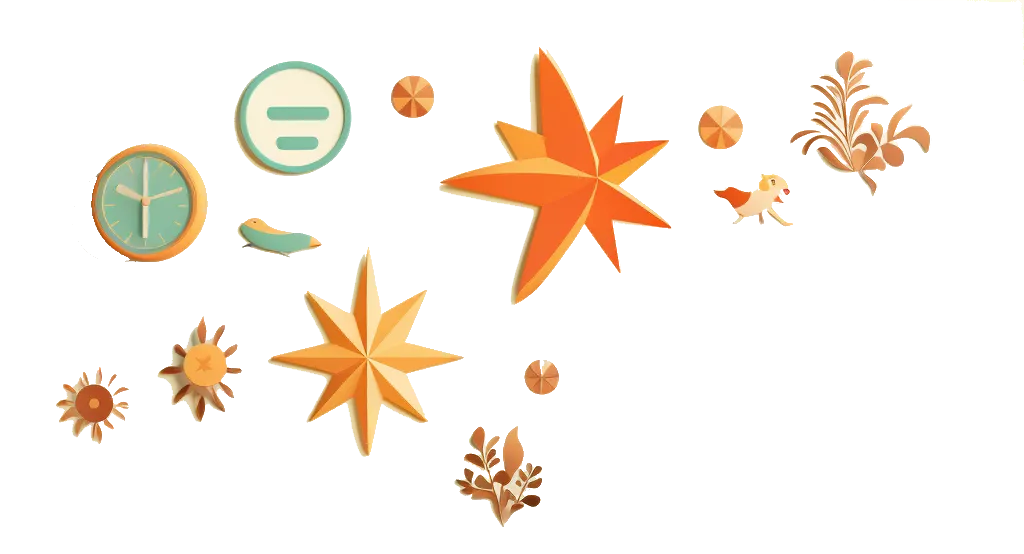
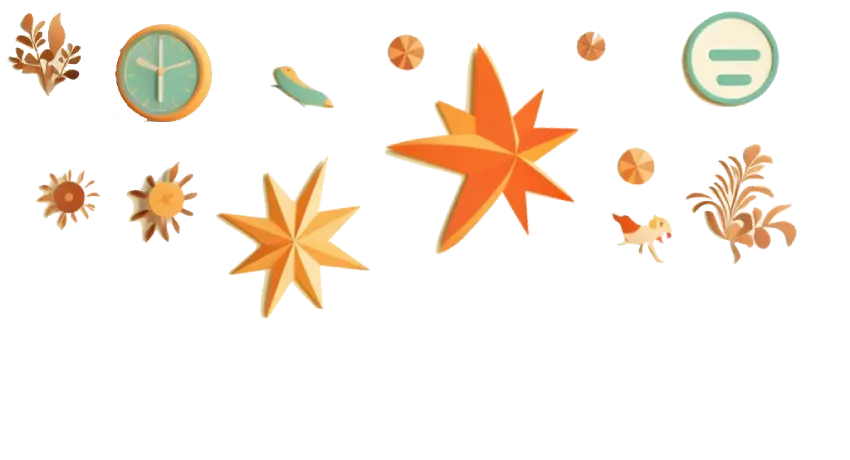
ga-working MVP with minor issues in CSS

diff --git a/styles.scss b/styles.scss
@@ -1,3 +1,9 @@
+// TODO:
+// 1. modalBG space at top
+// 2. right sidebar?
+// 3. LR creases not showing
+// 4. Victory laughing
+
 // Variables
 $red-main: #ef5735;
 $tan-main: #faf0d6;
@@ -27,7 +33,7 @@ $shadow: #949876;
     background-color: rgba(0, 0, 0, 0.85);
   }
   50% {
-    background-color: rgba(0, 0, 0, 0.9);
+    background-color: rgba(0, 0, 0, 0.95);
   }
   100% {
     background-color: rgba(0, 0, 0, 0.85);
@@ -178,7 +184,36 @@ p {
 
 .item {
   position: absolute;
+  z-index: 5;
+}
+
+.floor-crease {
+  height: 2px;
+  width: 100%;
+  color: #271c02;
+  position: absolute;
+  top: 45%;
+  left: 0;
   z-index: 1;
+}
+
+.left-crease {
+  height: 45%;
+  width: 2px;
+  color: #271c02;
+  position: absolute;
+  top: 0;
+  left: 20%;
+  z-index: 1;
+}
+.right-crease {
+  height: 45%;
+  width: 2px;
+  color: #271c02;
+  position: absolute;
+  top: 1;
+  left: 20%;
+  z-index: 0;
 }
 
 #baby {
@@ -296,7 +331,7 @@ p {
 
 .scenery {
   position: absolute;
-  z-index: 0;
+  z-index: 3;
 }
 
 #scoreboard {
@@ -307,10 +342,10 @@ p {
   position: absolute;
   height: 30px;
   width: 200px;
-  padding: 10px;
+  padding: 15px;
   border-radius: 8px;
-  top: 20px;
-  right: 20px;
+  top: 10px;
+  right: 40px;
   z-index: 99;
 }
 #scoreTitle {
@@ -340,13 +375,18 @@ p {
 }
 
 #sofa {
-  top: 30%;
+  top: 35%;
   left: 38%;
 }
 
 #smallbookshelf {
   left: 75%;
   top: 4%;
+}
+
+#smallpot {
+  left: 64%;
+  top: 45%;
 }
 
 #stool {
@@ -357,6 +397,13 @@ p {
 #twincabinet {
   left: 5%;
   top: 5%;
+}
+
+#wallhangings {
+  top: 0;
+  left: 50%;
+  margin: 0 auto;
+  transform: translate(-50%, 0%);
 }
 
 // ACTIONS
@@ -377,4 +424,11 @@ p {
 
 .tip-left {
   animation: tip-over-left 0.3s 1 ease-in forwards;
+}
+
+.gone {
+  display: none;
+}
+.win,
+.lose {
 }

diff --git a/index.html b/index.html
@@ -23,7 +23,7 @@
         <h1>Congratulations! You helped <span class="enter-baby-name"></span> destroy the living room!</h1>
         <img id="baby-win" src="img/baby-win.webp" />
       </article>
-      <article class="lose hide">
+      <article class="lose hide gone">
         <h1>Wah! You and <span class="enter-baby-name"></span> didn't destroy the living room in time!</h1>
         <h4>How could you do this to a child? You monster.</h4>
         <img id="baby-lose" src="img/baby-lose.webp" />
@@ -63,12 +63,21 @@
         <figure class="item" id="smallbookshelf" data-name="smallbookshelf" data-cost="225">
           <img src="img/smallbookshelf.webp" alt="Small Bookshelf" />
         </figure>
+        <figure class="item" id="smallpot" data-name="smallpot" data-cost="25">
+          <img src="img/smallpot.webp" alt="Small Potted Plant" />
+        </figure>
         <figure class="item" id="cabinet" data-name="cabinet" data-cost="350">
           <img src="img/cabinet.webp" alt="Cabinet" />
         </figure>
         <figure id="rug" class="scenery" data-name="rug" data-cost="2200">
           <img src="img/abstract_rug.webp" alt="Abstract mid century rug" />
         </figure>
+        <figure id="wallhangings" class="scenery" data-name="wallhangings" data-cost="825">
+          <img src="img/wallhangings.webp" alt="Wall hangings" />
+        </figure>
+        <figure class-="scenery floor-crease"></figure>
+        <figure class-="scenery left-crease"></figure>
+        <figure class-="scenery right-crease"></figure>
       </section>
     </main>
   </body>

diff --git a/styles.css b/styles.css
@@ -15,7 +15,7 @@
     background-color: rgba(0, 0, 0, 0.85);
   }
   50% {
-    background-color: rgba(0, 0, 0, 0.9);
+    background-color: rgba(0, 0, 0, 0.95);
   }
   100% {
     background-color: rgba(0, 0, 0, 0.85);
@@ -160,7 +160,37 @@ p {
 
 .item {
   position: absolute;
+  z-index: 5;
+}
+
+.floor-crease {
+  height: 2px;
+  width: 100%;
+  color: #271c02;
+  position: absolute;
+  top: 45%;
+  left: 0;
   z-index: 1;
+}
+
+.left-crease {
+  height: 45%;
+  width: 2px;
+  color: #271c02;
+  position: absolute;
+  top: 0;
+  left: 20%;
+  z-index: 1;
+}
+
+.right-crease {
+  height: 45%;
+  width: 2px;
+  color: #271c02;
+  position: absolute;
+  top: 1;
+  left: 20%;
+  z-index: 0;
 }
 
 #baby {
@@ -272,7 +302,7 @@ p {
 
 .scenery {
   position: absolute;
-  z-index: 0;
+  z-index: 3;
 }
 
 #scoreboard {
@@ -283,10 +313,10 @@ p {
   position: absolute;
   height: 30px;
   width: 200px;
-  padding: 10px;
+  padding: 15px;
   border-radius: 8px;
-  top: 20px;
-  right: 20px;
+  top: 10px;
+  right: 40px;
   z-index: 99;
 }
 
@@ -317,13 +347,18 @@ p {
 }
 
 #sofa {
-  top: 30%;
+  top: 35%;
   left: 38%;
 }
 
 #smallbookshelf {
   left: 75%;
   top: 4%;
+}
+
+#smallpot {
+  left: 64%;
+  top: 45%;
 }
 
 #stool {
@@ -334,6 +369,13 @@ p {
 #twincabinet {
   left: 5%;
   top: 5%;
+}
+
+#wallhangings {
+  top: 0;
+  left: 50%;
+  margin: 0 auto;
+  transform: translate(-50%, 0%);
 }
 
 .hide {
@@ -354,4 +396,8 @@ p {
 
 .tip-left {
   animation: tip-over-left 0.3s 1 ease-in forwards;
+}
+
+.gone {
+  display: none;
 }

diff --git a/script.js b/script.js
@@ -327,6 +327,9 @@ startButton.addEventListener('click', () => {
   liftOff();
 });
 
+babyContainer.addEventListener('click', () => {
+  babyInstance.endGame();
+});
 //--------------  RANDOM NOISES  ----------------//
 
 // set a random timeout
